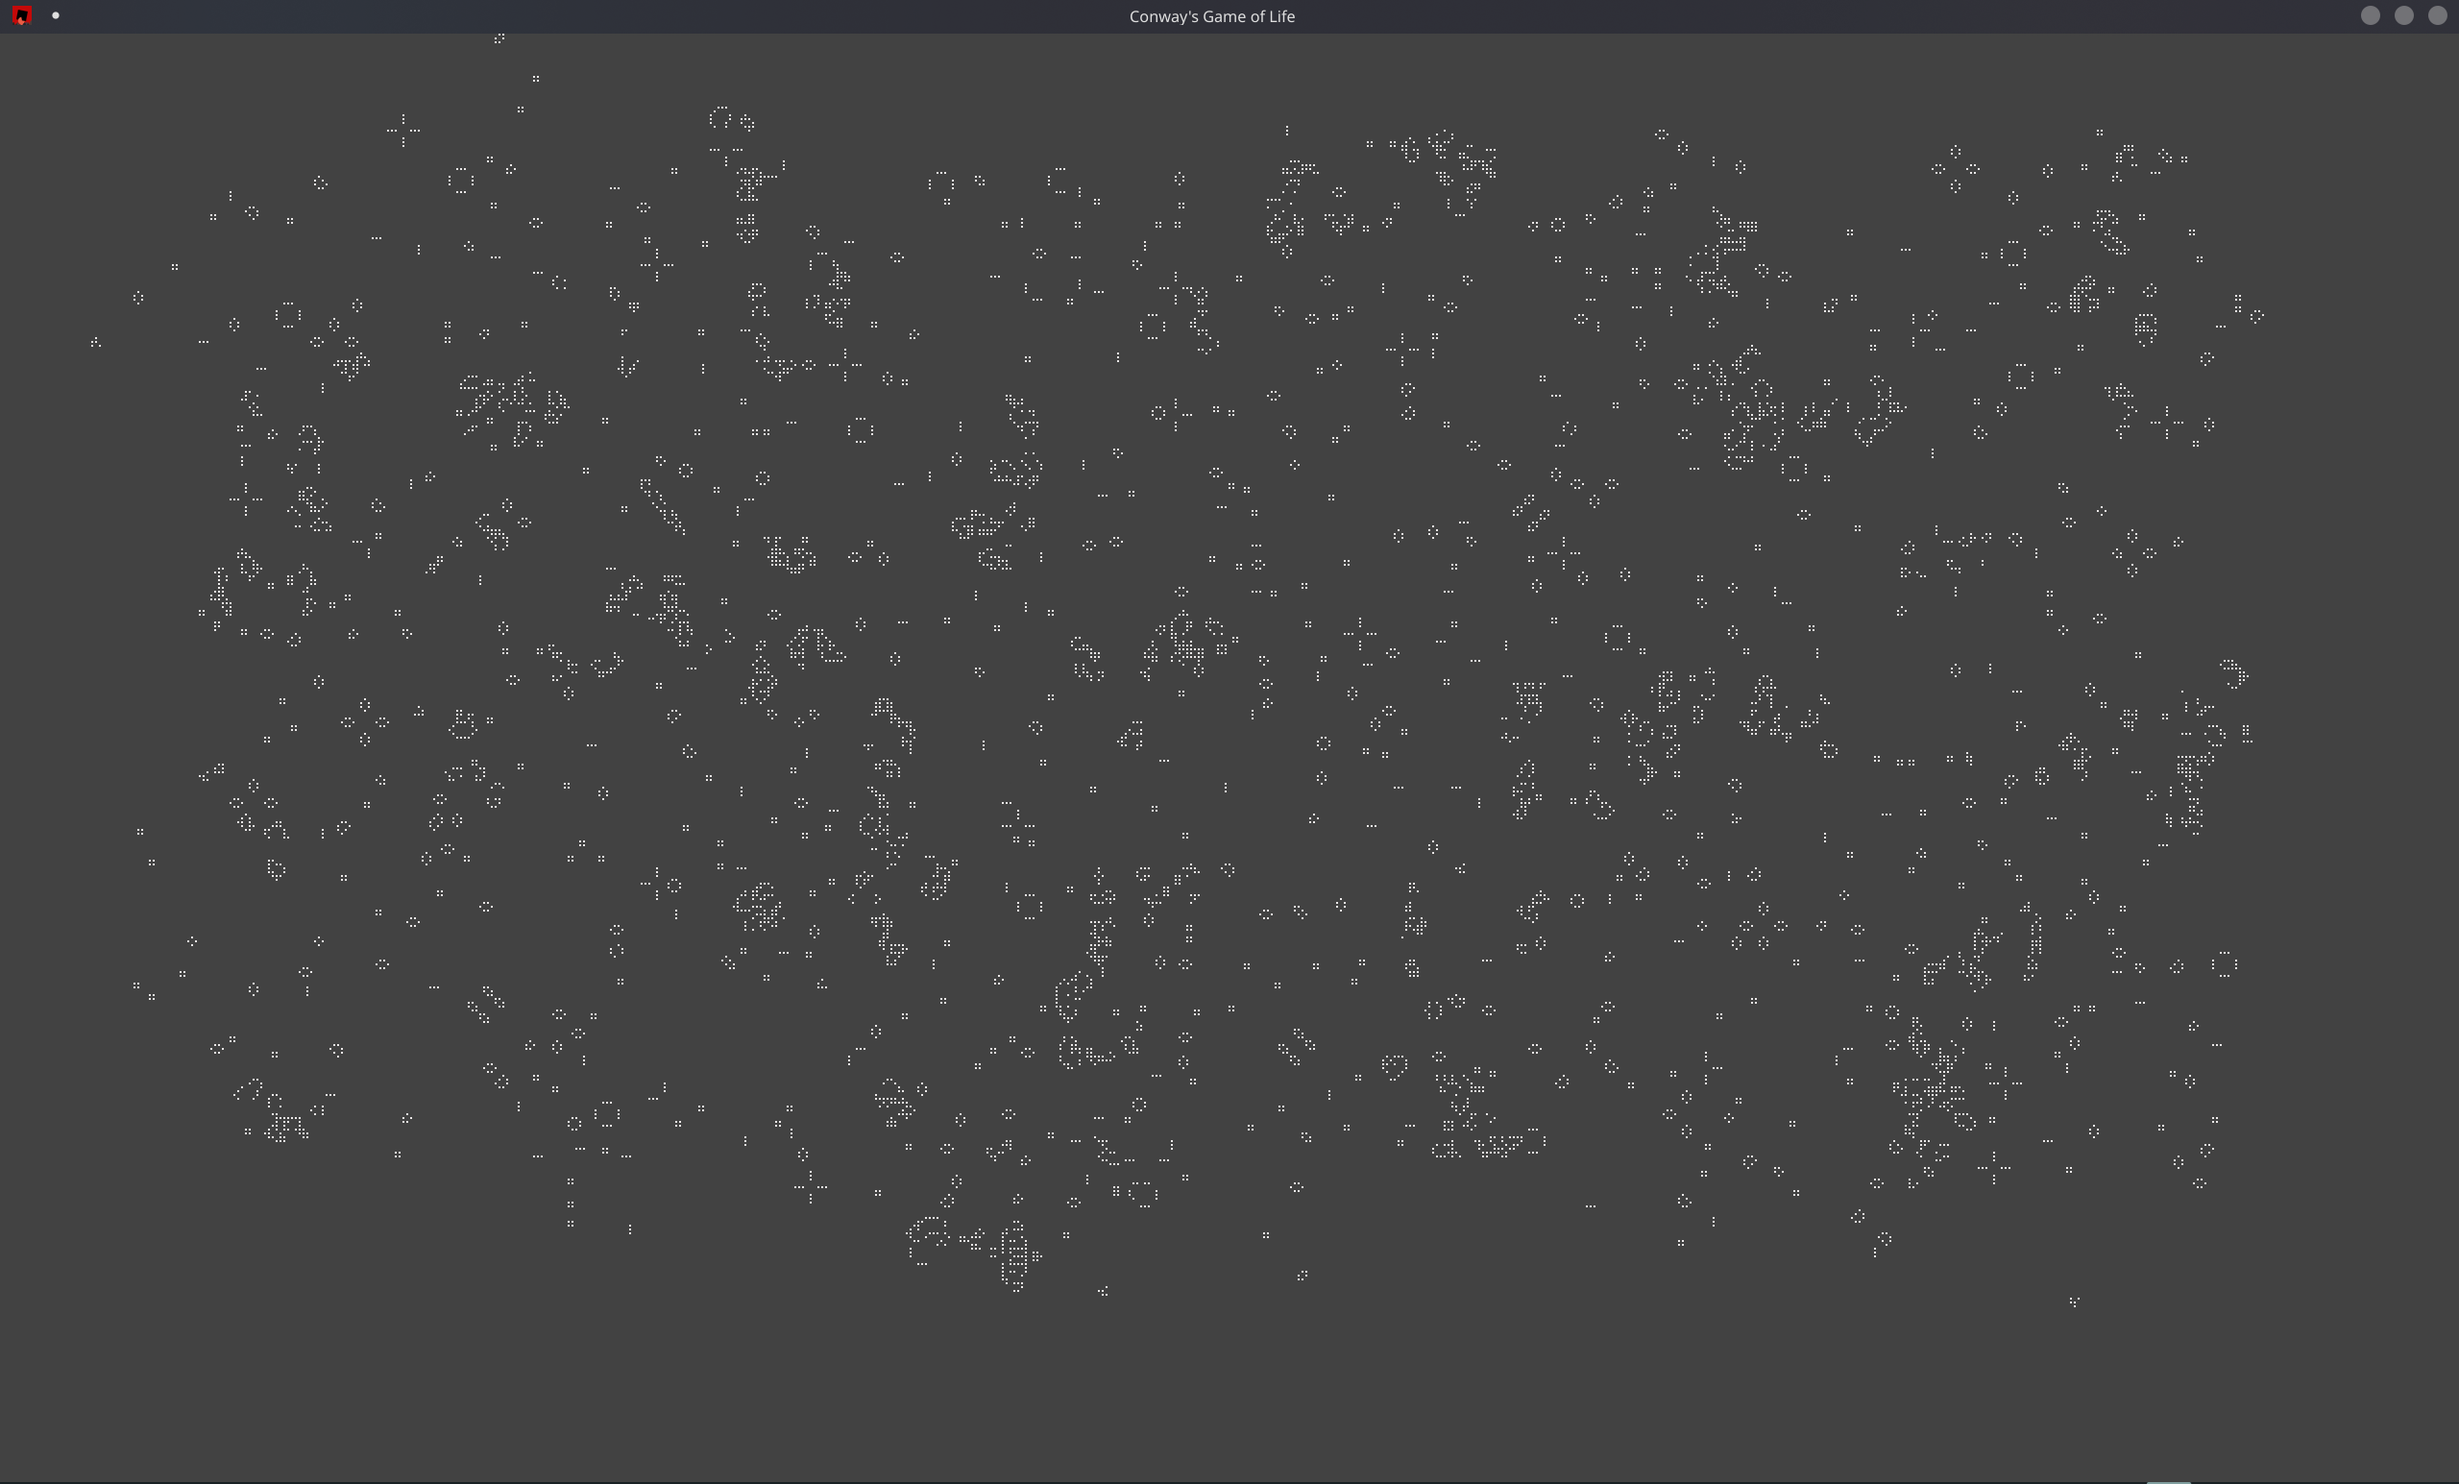
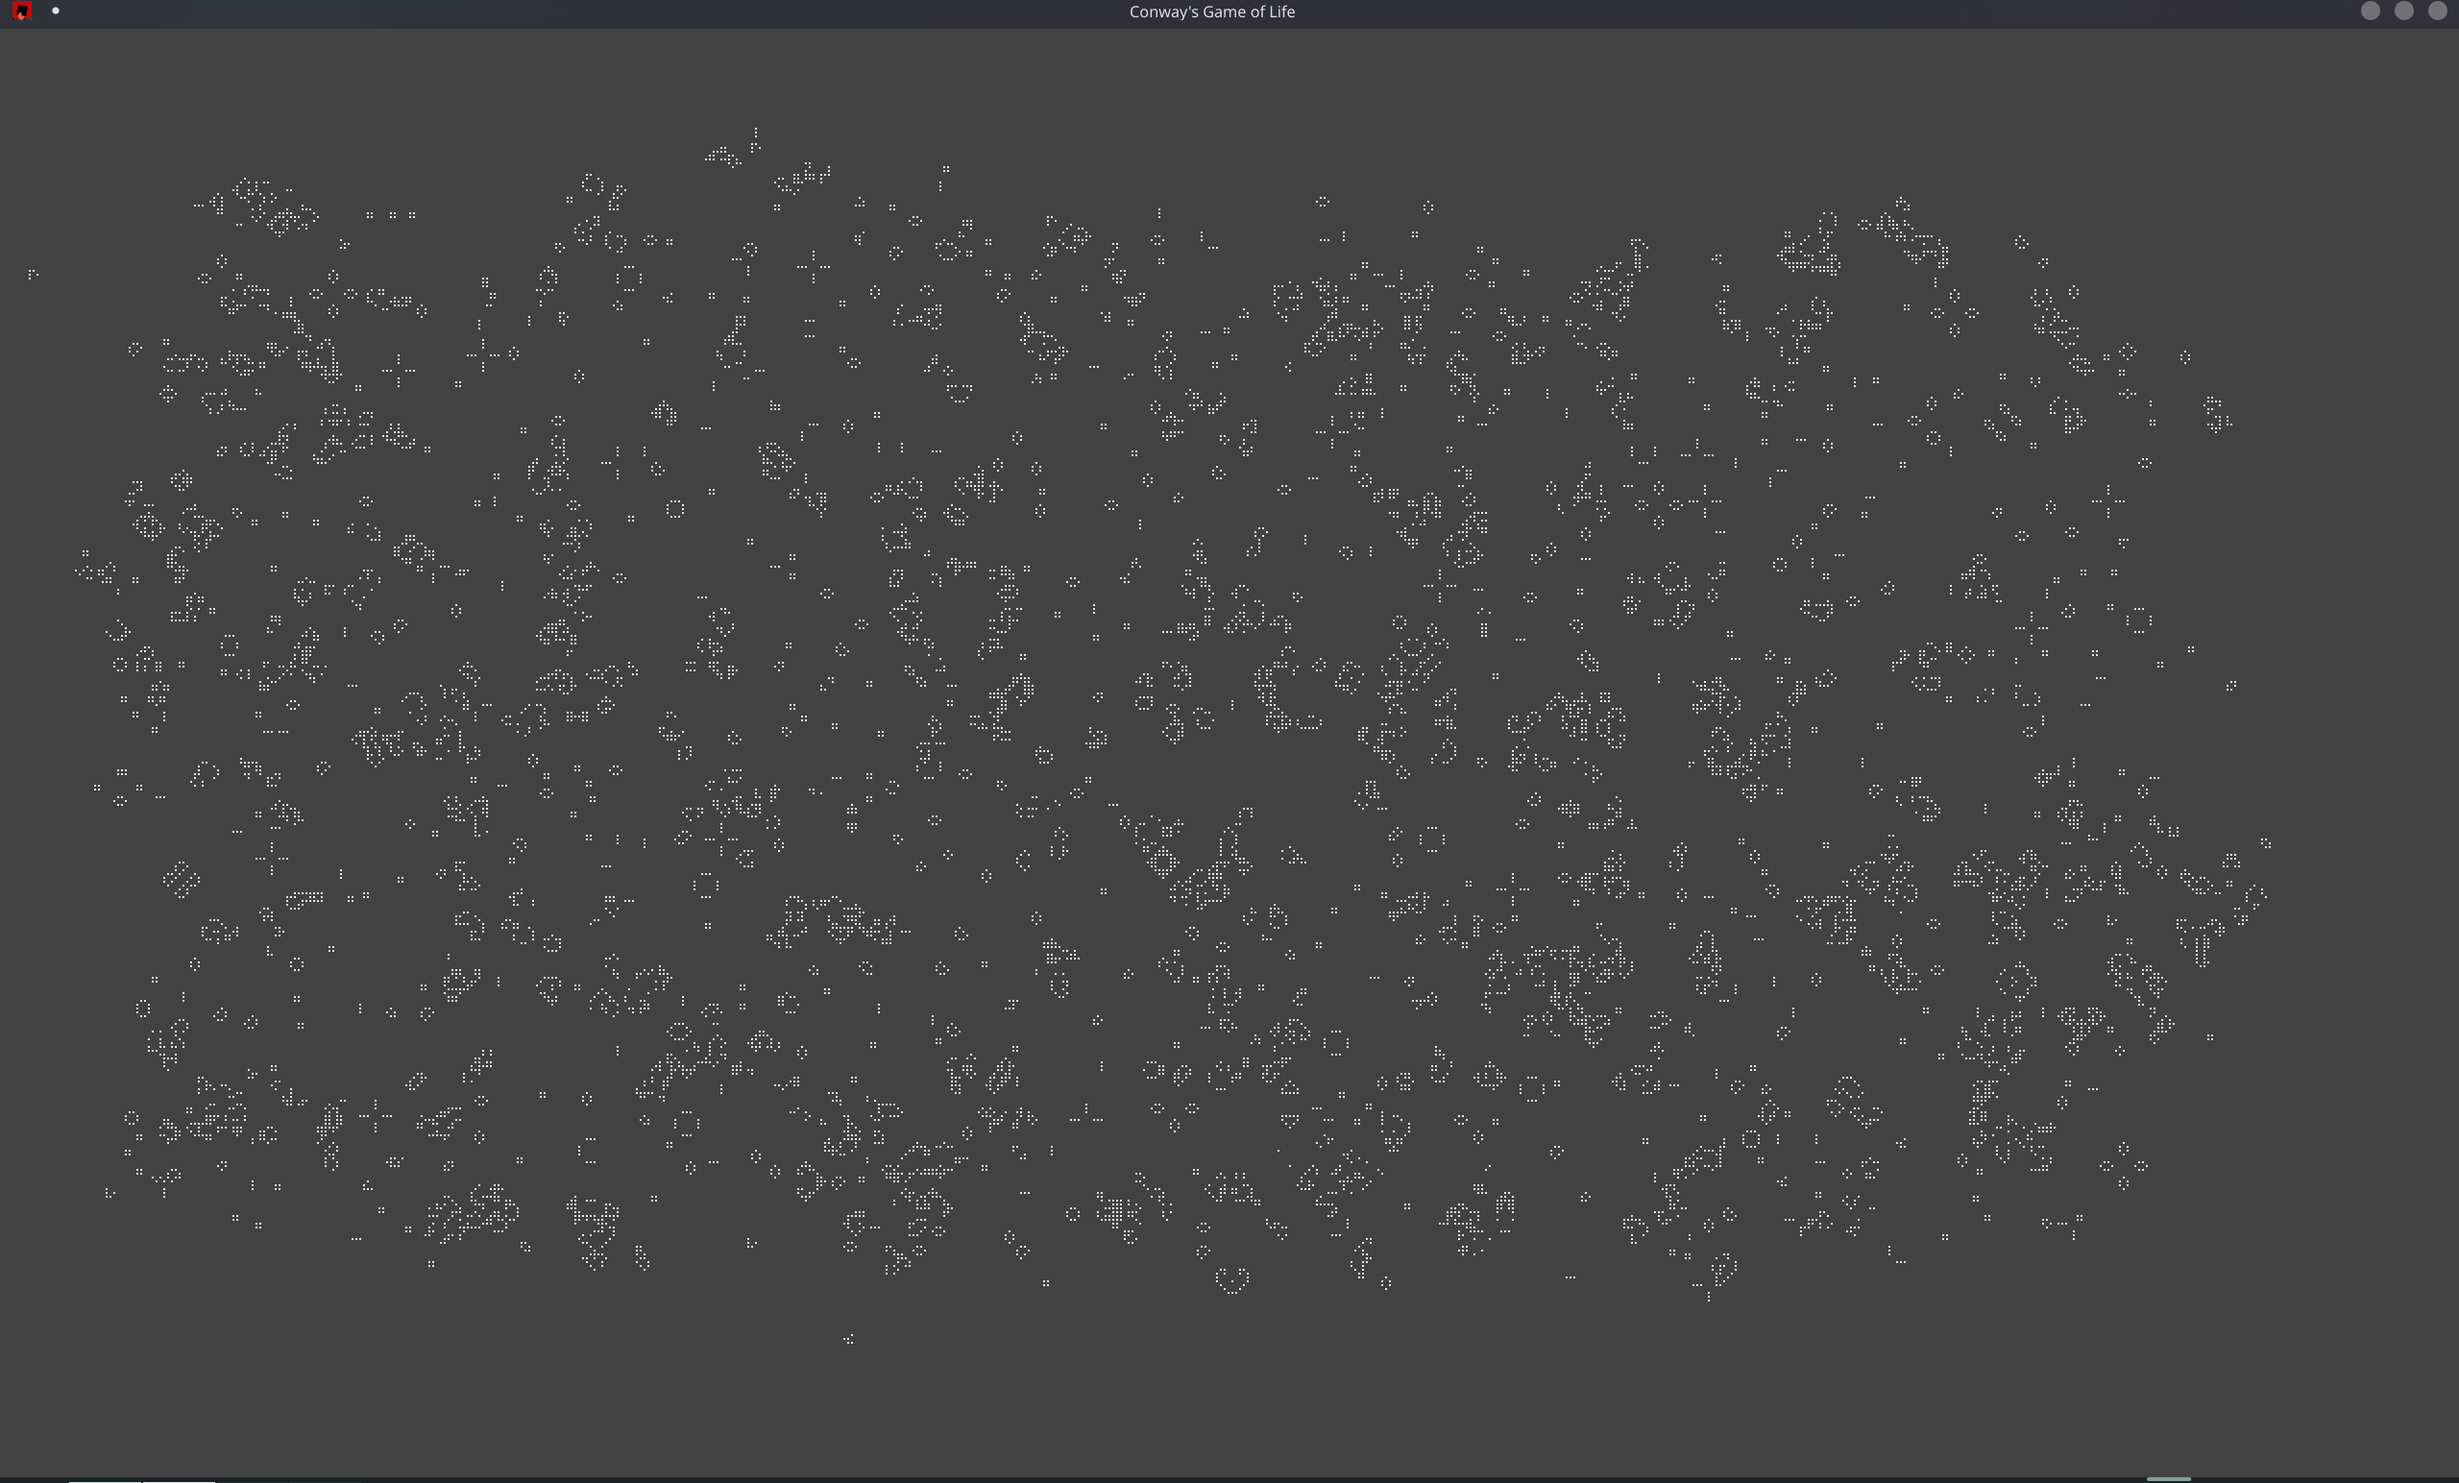
edit: density for initialization

diff --git a/src/main.rs b/src/main.rs
@@ -3,13 +3,14 @@ use std::collections::HashMap;
 use std::collections::HashSet;
 
 use macroquad::input::mouse_position;
-use macroquad::math::Vec2;
+use macroquad::math::{clamp, Vec2};
 
 const ZOOM_WHEEL_SENSITIVITY: f32 = 0.1;
 
 const BACKGROUND_COLOR: prelude::Color = prelude::Color::from_hex(0x424242);
 const ALIVE_CELL_COLOR: prelude::Color = prelude::Color::from_hex(0xEBE8E8);
 
+const DENSITY:f64 = 0.5;
 
 static PADDING:i32 = 4;
 static CELL_SIZE:i32 = 8;
@@ -96,7 +97,8 @@ async fn main() {
     let dimensions = 1000.0;
     let mut alive_cells :HashSet<Cell> = initialize_cells(
         screen_to_world( (-dimensions*2.0, -dimensions), CELL_SIZE as f32, camera_offset ),
-        screen_to_world(( dimensions*2.0, dimensions ), CELL_SIZE as f32, camera_offset)
+        screen_to_world(( dimensions*2.0, dimensions ), CELL_SIZE as f32, camera_offset),
+        DENSITY
     );
 
 
@@ -137,7 +139,7 @@ async fn main() {
         }
 
         prelude::clear_background(BACKGROUND_COLOR);
-        
+
 
         timer += prelude::get_frame_time();
         if timer > 0.01 {
@@ -157,7 +159,7 @@ async fn main() {
                 (CELL_SIZE - PADDING ) as f32* zoom_factor,
                 ALIVE_CELL_COLOR
             );
-            
+
         }
 
 
@@ -168,9 +170,10 @@ async fn main() {
 
 
 
-fn initialize_cells(top_left: (i32,i32), bottom_right:(i32,i32)) -> HashSet<Cell> {
+fn initialize_cells(top_left: (i32,i32), bottom_right:(i32,i32), density:f64) -> HashSet<Cell> {
     /*
-        * Initialise les cellules avec une chance sur 3 d'être vivantes (changera peut être)
+
+        * Initialise les cellules avec une chance de density/1.0 (doit être entre 0.0 et 1.0)
         * Recupere les coordonnées du coin supérieur gauche et du coin inférieur droit pour créer un rectangle dans lequel les cellules seront initialisées
         * Les coordonnées sont celles des cellules.
     */
@@ -184,7 +187,7 @@ fn initialize_cells(top_left: (i32,i32), bottom_right:(i32,i32)) -> HashSet<Cell
 
     for x in min_x..=max_x {
         for y in min_y..=max_y {
-            if rand::random_bool(1.0 / 5.0) {
+            if rand::random_bool( clamp(density, 0.0, 1.0) ) {
                 alive_cells.insert((x, y));
             }
         }
